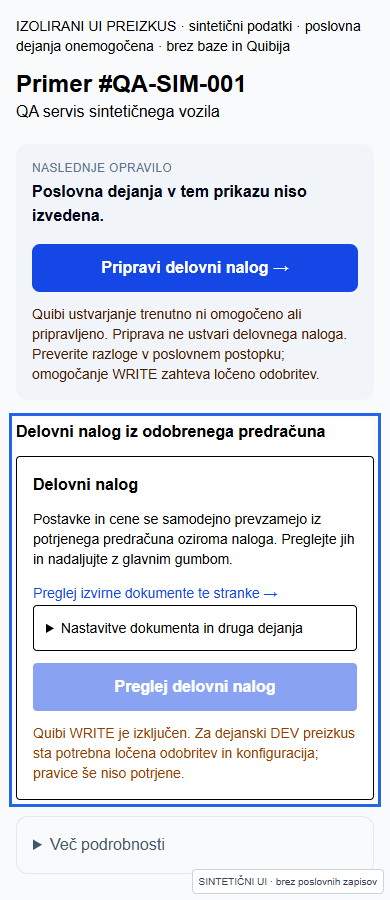
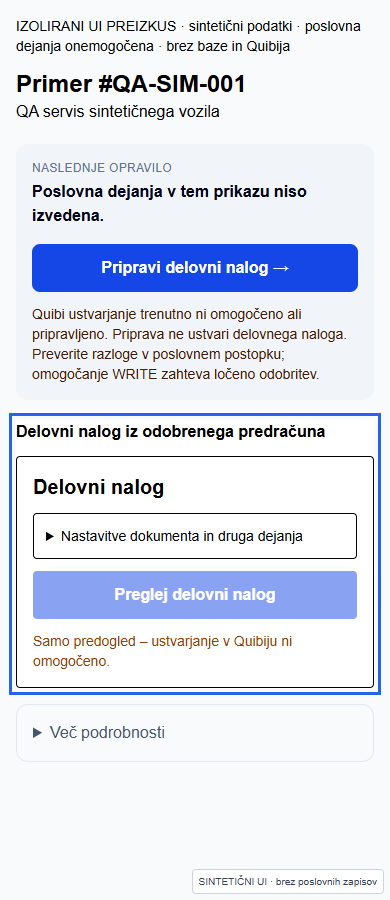
fix: keep document preview and synthetic DEV creation labels explicit

Changed region(s): [[0.0, 0.5289, 0.9846, 0.9022], [0.1231, 0.9333, 0.4308, 0.9644]]

diff --git a/src/components/dashboard/QuibiBusinessDocumentForm.tsx b/src/components/dashboard/QuibiBusinessDocumentForm.tsx
@@ -49,7 +49,7 @@ export function QuibiBusinessDocumentForm({orderId,caseId,status,choices,writeEn
 
 
  {!result?.sha&&!result?.documentId&&<button disabled={pending||dispatchStarted} className="min-h-12 w-full rounded bg-blue-700 px-4 py-3 font-semibold text-white disabled:opacity-50">{pending?'Pripravljam…':kind==='invoice'?'Preglej račun':'Preglej delovni nalog'}</button>}
- {result?.sha&&writeEnabled&&<button data-dispatch="yes" disabled={pending||dispatchStarted} className="min-h-12 w-full rounded bg-blue-700 px-4 py-3 font-semibold text-white disabled:opacity-50">{operation==='update'?'Shrani spremembe':kind==='invoice'?'Ustvari račun v Quibiju':'Ustvari delovni nalog'}</button>}
+ {result?.sha&&writeEnabled&&syntheticQa&&<p className="text-sm text-amber-800">Ustvarjen bo testni dokument v Quibi DEV. To ni dokaz dejanskega popravila, plačila ali prevzema.</p>}{result?.sha&&writeEnabled&&<button data-dispatch="yes" disabled={pending||dispatchStarted} className="min-h-12 w-full rounded bg-blue-700 px-4 py-3 font-semibold text-white disabled:opacity-50">{operation==='update'?'Shrani spremembe':kind==='invoice'?'Ustvari račun v Quibiju':'Ustvari delovni nalog'}</button>}
 
  {!writeEnabled&&<p className="text-sm text-amber-800">Samo predogled – ustvarjanje v Quibiju ni omogočeno.</p>}
  {dispatchStarted&&<p className="text-sm">Zahtevek je bil sprožen enkrat. Preverite prikazani rezultat in povezani dokument. Ob neznanem izidu ponovitev ostaja ustavljena.</p>}
@@ -102,7 +102,7 @@ function BusinessDocumentPreview({result,customerId,kind}:{result:BusinessPrepar
  const money=(value:string|undefined)=>Number.isFinite(Number(value))?Number(value).toLocaleString('sl-SI',{style:'currency',currency:'EUR'}):'Ni potrjeno';
  return <section aria-label="Predogled dokumenta" className="space-y-3">
  <p className="text-sm">{result.customer||'Stranka še ni preverjena'} · Quibi {kind==='invoice'?'nalog':'predračun'} #{result.sourceId}</p>
- <p className="text-sm font-medium text-slate-600">Predogled · dokument še ni ustvarjen</p>
+ <p className="text-sm font-medium text-slate-600">Predogled · brez novega zapisa v Quibiju</p>
  <div className="divide-y rounded-lg border">{result.lines?.map((line,index)=><div key={index} className="grid grid-cols-[minmax(0,1fr)_auto] gap-2 p-3 text-sm"><div><p className="break-words font-medium">{line.description}</p><p className="text-slate-500">{line.quantity} {line.unit} · DDV {line.vat}{Number(line.discount)!==0?' · popust '+line.discount+' %':''}</p></div><p className="text-right font-medium">{money(String(moneyLineCents(line.quantity,line.unitGrossPrice,line.discount)/100))}{(Number(line.quantity)!==1||Number(line.discount)!==0)&&<span className="block text-xs font-normal text-slate-500">{money(line.unitGrossPrice)} / enoto</span>}<span className="block text-xs font-normal text-slate-500">z DDV</span></p></div>)}</div>
  <p className="text-lg font-semibold">Skupaj z DDV: {money(result.amount)}</p>
  {result.taxTotals?.map((tax,index)=><p className="text-sm text-slate-600" key={index}>Osnova {money(tax.base)} · DDV {money(tax.vat)}</p>)}

diff --git a/docs/qa/selan-p1-2026-10-24/README.md b/docs/qa/selan-p1-2026-10-24/README.md
@@ -61,3 +61,15 @@ Prebrani projektni `AGENTS.md` in `CLAUDE.md`: `C:/Users/Admin/.codex/worktrees/
 Spremembe so v obstoječih dashboard adapterjih/skupinah, poslovnem obrazcu, prikazu SEND, fotografijah, pregledu plačila in ciljanih testih. Nov helper hrani samo datume seje. Brez migracij, auth/RLS sprememb ali novih odvisnosti.
 
 Končni commit, status builda, povezava na Preview in rezultat svežega READ preverjanja so navedeni v opisu [PR #19](https://github.com/as-selan/Avtoservis-Selan/pull/19). Skript `scripts/quibi-p1-read.mjs` omeji omrežje na Quibi DEV in ta Supabase DEV; dopušča GET in samo dokumentirani PDF READ POST, nikoli CREATE/UPDATE/SEND. Lokalni TypeScript, ESLint ter 5 dodatnih testov Realtime schedulerja so prav tako uspešni.
+
+## Sveže potrjeno v Quibi DEV (READ, commit f14026f)
+
+[Celoten omejeni dokaz](quibi-read.json): 5 GET in 2 dokumentirana PDF READ POST; `write:false`, `send:false`.
+
+- A73 je `work_completed` in povezan z nalogom **2176933 / 272/2026**. Selanov dnevnik vsebuje preverjeni nalog, ne povezanega računa ali pošiljanja tega primera. To ne dokazuje odsotnosti morebitnega ročno ustvarjenega nepovezanega računa v Quibiju.
+- Predračun **2176932 / 282/2026** in nalog **2176933 / 272/2026** imata enake tri postavke in **111,87 €**. Oba PDF-ja sta dostopna (1.187.153 in 1.182.605 bajtov). PDF je preverjen kot vrnjen dokument, ne kot vizualni pregled računa.
+- Redni servis: artikel **89158 / ASRSV**, neto **27**, bruto **32,94**. Drugi postavki sta prosti postavki: neto **48,33606557** / bruto **58,97** in neto **16,36065574** / bruto **19,96**. Vse količina 1, enota 1, DDV 22 %, popust 0. Obstoječega dokumenta ne preračunavamo po drugem ceniku.
+- Shranjeni osnutek ima `article:89158`, nato prosti ceni **58.97** in **19.96**. Izvorne uporabnikove tipke **59/20** niso neodvisno zabeležene; ne moremo dokazati, ali sta bili višji vrednosti shranjeni v starejši različici. Obstoječi osnutek in dokument se ujemata; za dokaz izvora razlike manjka neodvisen zapis prvotnega uporabnikovega vnosa.
+- Quibi vrne osnovo **91,70000000**, DDV **20,17400000** in davčni seštevek **111,87400000**; prikaz na cente je **91,70 + 20,17 = 111,87 €**. Ne gre za dokaz izgube 59/20 pri novem vnosu. Izolirani ročni scenarij **32,94 + 59,00 + 20,00 = 111,94 €** ohrani vrednosti skozi shranjevanje/ponovni prikaz adapterja in payload.
+- Status obeh dokumentov je **null**. Datum dokumenta je 24. 10. 2026, datum storitve in zapadlost nista vrnjena. Neznanih datumov ali statusov ne dopolnjujemo kot dejstvo in plačila ne predpostavljamo.
+- Čisti Vercel build f14026f je uspešno opravil prevod, TypeScript in generiranje strani ter ta READ. Končni Preview in zadnji commit sta preverjena v opisu PR po zadnji objavi.
